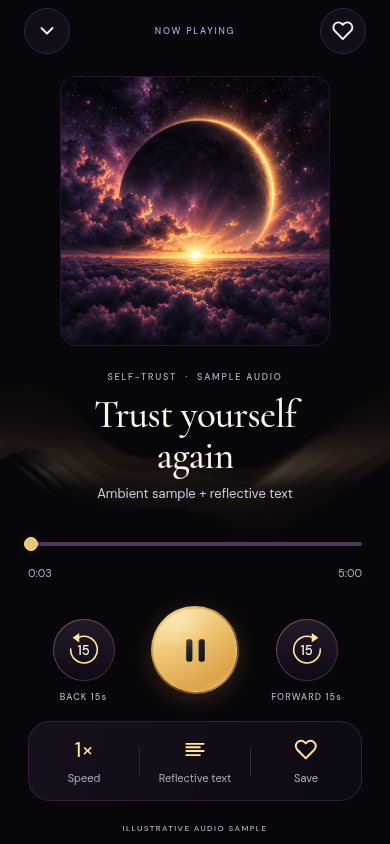
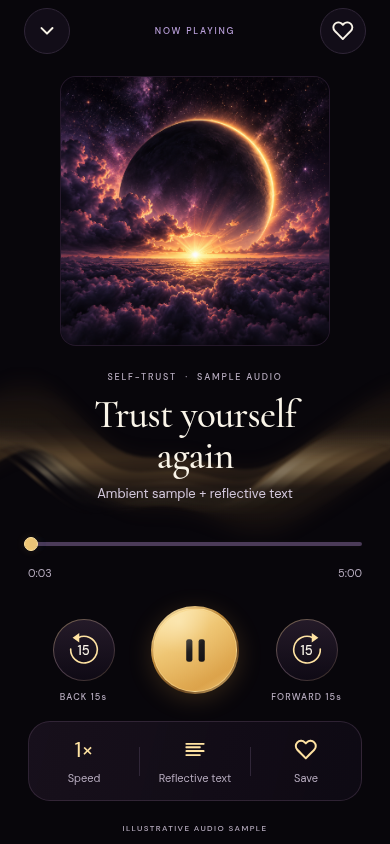
Brighten gold aurora and restore player touch scrolling

Changed region(s): [[0.0, 0.4929, 0.5231, 0.5853], [0.6462, 0.4929, 1.0, 0.5853]]

diff --git a/src/ui/SeekBar.tsx b/src/ui/SeekBar.tsx
@@ -1,24 +1,22 @@
-import React, { useCallback, useEffect, useRef, useState } from 'react';
+import React, { useCallback, useEffect, useMemo, useRef, useState } from 'react';
 import { AppState, Platform, View } from 'react-native';
 import Slider from '@react-native-community/slider';
 import { LinearGradient } from 'expo-linear-gradient';
 import { colors } from './theme';
 import { clampPosition, formatTime } from '../content/logic';
 import { seekInteraction, type SeekAction, type SeekInteraction } from './seekInteraction';
+import { createNativeSeekGesture } from './nativeSeekGesture';
 
 type Props = {
   position: number;
   duration: number;
   onSeek: (seconds: number) => void;
   disabled?: boolean;
-  onScrubbingChange?: (scrubbing: boolean) => void;
 };
 
-export function SeekBar({ position, duration, onSeek, disabled, onScrubbingChange }: Props) {
+export function SeekBar({ position, duration, onSeek, disabled }: Props) {
   const [interaction, setInteraction] = useState<SeekInteraction>({ phase: 'idle' });
   const interactionRef = useRef(interaction);
-  const onScrubbingRef = useRef(onScrubbingChange);
-  onScrubbingRef.current = onScrubbingChange;
   const [focused, setFocused] = useState(false);
   const unavailable = !!disabled || !Number.isFinite(duration) || duration <= 0;
   const transition = useCallback((action: SeekAction) => {
@@ -26,13 +24,15 @@ export function SeekBar({ position, duration, onSeek, disabled, onScrubbingChang
     const next = seekInteraction(previous, action);
     interactionRef.current = next;
     if (previous !== next) setInteraction(next);
-    if ((previous.phase === 'dragging') !== (next.phase === 'dragging')) {
-      onScrubbingRef.current?.(next.phase === 'dragging');
-    }
   }, []);
   const reset = useCallback(() => transition({ type: 'reset' }), [transition]);
+  const nativeGesture = useMemo(() => createNativeSeekGesture(() => {
+    if (interactionRef.current.phase === 'dragging') reset();
+  }), [reset]);
   useEffect(() => { transition({ type: 'position', value: position }); }, [position, transition]);
-  useEffect(() => { if (unavailable) reset(); }, [unavailable, reset]);
+  useEffect(() => {
+    if (unavailable) { nativeGesture.cancel(); reset(); }
+  }, [unavailable, reset, nativeGesture]);
   useEffect(() => {
     if (interaction.phase !== 'seeking') return;
     // A failed seek must not strand the thumb; normal 250 ms transport ticks acknowledge it first.
@@ -40,9 +40,14 @@ export function SeekBar({ position, duration, onSeek, disabled, onScrubbingChang
     return () => clearTimeout(timer);
   }, [interaction, reset]);
   useEffect(() => {
-    const subscription = AppState.addEventListener('change', state => { if (state !== 'active') reset(); });
-    return () => { subscription.remove(); onScrubbingRef.current?.(false); };
-  }, [reset]);
+    const subscription = AppState.addEventListener('change', state => {
+      if (state !== 'active') { nativeGesture.cancel(); reset(); }
+    });
+    return () => {
+      subscription.remove();
+      nativeGesture.dispose();
+    };
+  }, [reset, nativeGesture]);
 
   const value = clampPosition(interaction.phase === 'idle' ? position : interaction.value, duration);
   const commit = (seconds: number) => {
@@ -80,7 +85,9 @@ export function SeekBar({ position, duration, onSeek, disabled, onScrubbingChang
       value={interaction.phase === 'dragging' ? interaction.nativeValue : value}
       disabled={unavailable} tapToSeek step={0} thumbSize={18}
       minimumTrackTintColor={colors.gold} maximumTrackTintColor="#493957" thumbTintColor={colors.gold}
-      onSlidingStart={begin} onValueChange={move} onSlidingComplete={commit}
+      onSlidingStart={seconds => { nativeGesture.start(); begin(seconds); }} onValueChange={move}
+      onSlidingComplete={seconds => nativeGesture.complete(() => commit(seconds))}
+      onTouchEnd={nativeGesture.end} onTouchCancel={nativeGesture.cancel} onResponderTerminate={nativeGesture.cancel}
     />
   </View>;
 
@@ -104,9 +111,10 @@ export function SeekBar({ position, duration, onSeek, disabled, onScrubbingChang
       },
       onPointerUp: () => { if (interactionRef.current.phase === 'dragging') commit(interactionRef.current.value); },
       onPointerCancel: reset,
+      onLostPointerCapture: () => { if (interactionRef.current.phase === 'dragging') reset(); },
       onFocus: () => setFocused(true),
       onBlur: () => { setFocused(false); if (interactionRef.current.phase === 'dragging') reset(); },
-      style: { position: 'absolute', width: '100%', height: 44, opacity: .01, cursor: unavailable ? 'default' : 'pointer', margin: 0, touchAction: 'none' },
+      style: { position: 'absolute', width: '100%', height: 44, opacity: .01, cursor: unavailable ? 'default' : 'pointer', margin: 0, touchAction: 'pan-y' },
     })}
   </View>;
 }

diff --git a/tests/browser/player-scroll.spec.ts b/tests/browser/player-scroll.spec.ts
@@ -1,0 +1,64 @@
+import { test, expect, type CDPSession } from '@playwright/test';
+
+test.use({ hasTouch: true, viewport: { width: 390, height: 667 } });
+
+async function swipe(session: CDPSession, x: number, fromY: number, toY: number) {
+  await session.send('Input.dispatchTouchEvent', { type: 'touchStart', touchPoints: [{ x, y: fromY }] });
+  for (let step = 1; step <= 10; step++) {
+    await session.send('Input.dispatchTouchEvent', { type: 'touchMove', touchPoints: [{ x, y: fromY + (toY - fromY) * step / 10 }] });
+    await new Promise(resolve => setTimeout(resolve, 24));
+  }
+  await session.send('Input.dispatchTouchEvent', { type: 'touchEnd', touchPoints: [] });
+}
+
+test('player touch scrolling survives seek cancellation and works over foreground controls', async ({ page, context }) => {
+  const errors: string[] = [];
+  page.on('pageerror', error => errors.push(error.message));
+  await page.goto('./');
+  await page.getByTestId('finish-onboarding').click();
+  await page.getByRole('button', { name: 'Start listening' }).click();
+  await expect(page.getByTestId('player-toggle')).toHaveAttribute('aria-label', 'Pause practice');
+  await page.getByRole('button', { name: 'Reflective text', exact: true }).click();
+  const scroll = page.getByTestId('player-scroll');
+  const scrollTop = () => scroll.evaluate(node => node.scrollTop);
+  await expect.poll(() => scroll.evaluate(node => node.scrollHeight > node.clientHeight + 200)).toBe(true);
+  const session = await context.newCDPSession(page);
+
+  await scroll.evaluate(node => { node.scrollTop = 0; });
+  await swipe(session, 195, 450, 200);
+  await expect.poll(scrollTop).toBeGreaterThan(100);
+
+  // A vertical gesture beginning on the seek track must scroll the page. The
+  // browser cancels range tracking when it takes the pan; no stale drag lock
+  // may survive that cancellation.
+  const slider = page.getByRole('slider', { name: 'Seek audio' });
+  await slider.scrollIntoViewIfNeeded();
+  const bounds = (await slider.boundingBox())!;
+  const before = await scrollTop();
+  expect(await slider.evaluate(node => getComputedStyle(node).touchAction)).toBe('pan-y');
+  await swipe(session, bounds.x + bounds.width / 2, bounds.y + bounds.height / 2, Math.max(50, bounds.y - 180));
+  await expect.poll(scrollTop).toBeGreaterThan(before + 50);
+  expect(await scroll.evaluate(node => getComputedStyle(node).overflowY)).not.toBe('hidden');
+
+  // A real horizontal touch drag still seeks after that cancelled vertical pan.
+  await slider.scrollIntoViewIfNeeded();
+  const track = (await slider.boundingBox())!;
+  await session.send('Input.dispatchTouchEvent', { type: 'touchStart', touchPoints: [{ x: track.x + track.width * .25, y: track.y + track.height / 2 }] });
+  for (let step = 1; step <= 8; step++) {
+    await session.send('Input.dispatchTouchEvent', { type: 'touchMove', touchPoints: [{ x: track.x + track.width * (.25 + .5 * step / 8), y: track.y + track.height / 2 }] });
+    await new Promise(resolve => setTimeout(resolve, 24));
+  }
+  await session.send('Input.dispatchTouchEvent', { type: 'touchEnd', touchPoints: [] });
+  const duration = Number(await slider.getAttribute('max'));
+  await expect.poll(async () => Number(await slider.inputValue())).toBeGreaterThan(duration * .6);
+  // Keyboard and assistive seeking continue to work as well.
+  await slider.fill('30');
+  await expect(page.getByTestId('audio-position')).toHaveText('0:30');
+  await page.getByTestId('player-toggle').click();
+  await expect(page.getByTestId('player-toggle')).toHaveAttribute('aria-label', 'Play practice');
+  const control = (await page.getByTestId('player-toggle').boundingBox())!;
+  const afterSeek = await scrollTop();
+  await swipe(session, control.x + control.width / 2, control.y + control.height / 2, Math.max(50, control.y - 140));
+  await expect.poll(scrollTop).toBeGreaterThan(afterSeek + 50);
+  expect(errors).toEqual([]);
+});

diff --git a/app/player.tsx b/app/player.tsx
@@ -18,7 +18,6 @@ export default function PlayerScreen() {
   const store = useStore();
   const [showText, setShowText] = useState(false);
   const [showInfo, setShowInfo] = useState(false);
-  const [scrubbing, setScrubbing] = useState(false);
   const [bodyTop, setBodyTop] = useState(320);
   const { width, height, fontScale } = useWindowDimensions();
   const insets = useSafeAreaInsets();
@@ -28,7 +27,7 @@ export default function PlayerScreen() {
   const artworkSize = wide ? 410 : Math.min(width - 64, 330, Math.max(190, (height - insets.top - insets.bottom) * .32));
   const auroraStyle = useMemo(() => ({ top: wide ? 40 : Math.max(0, bodyTop - 75), height: wide ? 440 : 360 + Math.max(0, fontScale - 1) * 80 }), [wide, bodyTop, fontScale]);
   return <SafeAreaView style={{ flex: 1, backgroundColor: colors.bg }}>
-    <ScrollView keyboardShouldPersistTaps="handled" scrollEnabled={!scrubbing} canCancelContentTouches={false} directionalLockEnabled contentContainerStyle={{ alignItems: 'center', paddingTop: 8, paddingBottom: 24 }}>
+    <ScrollView testID="player-scroll" keyboardShouldPersistTaps="handled" directionalLockEnabled contentContainerStyle={{ alignItems: 'center', paddingTop: 8, paddingBottom: 24 }}>
       <View style={{ width: '100%', maxWidth: 1080, paddingHorizontal: 24, flexDirection: 'row', alignItems: 'center', justifyContent: 'space-between', gap: 12 }}>
         <IconButton framed name="chevron-down" label="Close player" onPress={() => router.canGoBack() ? router.back() : router.replace('/')} />
         <Label style={{ color: colors.purple, fontSize: 9 }}>NOW PLAYING</Label>
@@ -45,7 +44,7 @@ export default function PlayerScreen() {
               <Body style={{ fontSize: 13, lineHeight: 20, textAlign: 'center', color: '#D2C8DB' }}>Ambient sample + reflective text</Body>
             </View>
             <View style={{ marginTop: 0 }}>
-              <SeekBar position={audio.position} duration={audio.duration} onSeek={audio.seek} onScrubbingChange={setScrubbing} disabled={!audio.lesson || audio.loading} />
+              <SeekBar position={audio.position} duration={audio.duration} onSeek={audio.seek} disabled={!audio.lesson || audio.loading} />
               <View style={{ flexDirection: 'row', justifyContent: 'space-between' }}>
                 <Text testID="audio-position" style={{ color: colors.muted, fontFamily: fonts.body, fontVariant: ['tabular-nums'], fontSize: 11 }}>{formatTime(audio.position)}</Text>
                 <Text style={{ color: colors.muted, fontFamily: fonts.body, fontVariant: ['tabular-nums'], fontSize: 11 }}>{audio.duration ? formatTime(audio.duration) : `${lesson.minutes}:00`}</Text>

diff --git a/tests/nativeSeekGesture.test.ts b/tests/nativeSeekGesture.test.ts
@@ -1,0 +1,60 @@
+import assert from 'node:assert/strict';
+import test from 'node:test';
+import { createNativeSeekGesture } from '../src/ui/nativeSeekGesture';
+
+test('a cancelled native drag cannot seek even if the slider subsequently emits completion', context => {
+  context.mock.timers.enable({ apis: ['setTimeout'] });
+  const events: string[] = [];
+  const gesture = createNativeSeekGesture(() => events.push('release'));
+  gesture.start();
+  gesture.cancel();
+  gesture.complete(() => events.push('seek'));
+  context.mock.timers.runAll();
+  assert.deepEqual(events, ['release']);
+  gesture.start();
+  gesture.complete(() => events.push('new seek'));
+  assert.deepEqual(events, ['release', 'new seek']);
+});
+
+test('a new drag is not reset by the preceding touch-end fallback', context => {
+  context.mock.timers.enable({ apis: ['setTimeout'] });
+  let released = 0;
+  const gesture = createNativeSeekGesture(() => released++);
+  gesture.start();
+  gesture.end();
+  gesture.start();
+  context.mock.timers.runAll();
+  assert.equal(released, 0);
+  gesture.end();
+  context.mock.timers.runAll();
+  assert.equal(released, 1);
+});
+
+test('normal completion clears fallback and missing completion releases the held thumb', context => {
+  context.mock.timers.enable({ apis: ['setTimeout'] });
+  const events: string[] = [];
+  const gesture = createNativeSeekGesture(() => events.push('release'));
+  gesture.start();
+  gesture.end();
+  gesture.complete(() => events.push('seek'));
+  context.mock.timers.runAll();
+  assert.deepEqual(events, ['seek']);
+  gesture.start();
+  gesture.end();
+  context.mock.timers.runAll();
+  assert.deepEqual(events, ['seek', 'release']);
+  // A completion arriving after the fallback can still commit the native value.
+  gesture.complete(() => events.push('late seek'));
+  assert.deepEqual(events, ['seek', 'release', 'late seek']);
+});
+
+test('disposing a mounted slider clears any pending fallback', context => {
+  context.mock.timers.enable({ apis: ['setTimeout'] });
+  let released = false;
+  const gesture = createNativeSeekGesture(() => { released = true; });
+  gesture.start();
+  gesture.end();
+  gesture.dispose();
+  context.mock.timers.runAll();
+  assert.equal(released, false);
+});

diff --git a/tests/browser/app.spec.ts b/tests/browser/app.spec.ts
@@ -110,8 +110,8 @@ test('gold aurora changes shape, stays behind controls, idles and respects reduc
   const paths = visualizer.locator('path[id*="-ribbon-"]');
   const shape = () => paths.first().getAttribute('d');
   const opacity = () => page.getByTestId('waveform-intensity').evaluate(node => Number(getComputedStyle(node).opacity));
-  await expect.poll(opacity).toBeGreaterThan(.23);
-  expect(await opacity()).toBeLessThanOrEqual(.25);
+  await expect.poll(opacity).toBeGreaterThan(.54);
+  expect(await opacity()).toBeLessThanOrEqual(.57);
   expect(await paths.count()).toBe(6);
   const playing = await shape();
   await expect.poll(shape).not.toBe(playing);
@@ -140,14 +140,15 @@ test('gold aurora changes shape, stays behind controls, idles and respects reduc
   expect(new Set(gradientIds).size).toBe(gradientIds.length);
 
   await page.getByTestId('player-toggle').click();
-  await expect.poll(opacity).toBeLessThan(.12);
+  await expect.poll(opacity).toBeLessThan(.29);
+  expect(await opacity()).toBeGreaterThan(.25);
   const idle = await shape(); await expect.poll(shape).not.toBe(idle);
   await page.emulateMedia({ reducedMotion: 'reduce' });
   await page.waitForTimeout(200);
   const frozenIdle = await shape();
   await page.waitForTimeout(400); expect(await shape()).toBe(frozenIdle);
   await page.getByTestId('player-toggle').click();
-  await expect.poll(opacity).toBeGreaterThan(.23);
+  await expect.poll(opacity).toBeGreaterThan(.54);
   await page.waitForTimeout(200);
   const frozenPlaying = await shape();
   await page.waitForTimeout(400); expect(await shape()).toBe(frozenPlaying);

diff --git a/src/ui/PlaybackVisualizer.tsx b/src/ui/PlaybackVisualizer.tsx
@@ -50,7 +50,9 @@ export const PlaybackVisualizer = React.memo(function PlaybackVisualizer({ playi
     energy.value = withTiming(playing ? 1 : .2, { duration: reduceMotion ? 0 : 1400, easing: Easing.inOut(Easing.quad) });
     tempo.value = withTiming(playing ? 10000 : 26000, { duration: reduceMotion ? 0 : 1000 });
   }, [playing, reduceMotion, energy, tempo]);
-  const intensity = useAnimatedStyle(() => ({ opacity: compact ? .2 + .45 * energy.value : .08 + .16 * energy.value }));
+  // Individual ribbons already have soft, transparent gradients. Keep the
+  // full-width layer visible rather than dimming it a second time into black.
+  const intensity = useAnimatedStyle(() => ({ opacity: compact ? .2 + .45 * energy.value : .2 + .36 * energy.value }));
   return <View testID={compact ? 'mini-visualizer' : 'playback-visualizer'} pointerEvents="none" accessible={false} accessibilityElementsHidden importantForAccessibility="no-hide-descendants" style={[compact ? { width: 28, height: 22, overflow: 'hidden' } : { position: 'absolute', left: 0, right: 0, top: 0, height: 380, overflow: 'hidden', zIndex: 0 }, style]}>
     <Animated.View testID={!compact ? 'waveform-intensity' : undefined} style={[{ width: '100%', height: '100%' }, intensity]}>
       <Svg width="100%" height="100%" viewBox={`0 0 ${AURORA_WIDTH} ${AURORA_HEIGHT}`} preserveAspectRatio="none">

diff --git a/src/ui/nativeSeekGesture.ts b/src/ui/nativeSeekGesture.ts
@@ -1,0 +1,39 @@
+/** Native sliders can emit completion after cancellation. Keep that sequence
+ * separate from transport position, and expire only the touch that scheduled it. */
+export function createNativeSeekGesture(onInterrupted: () => void) {
+  let cancelled = false;
+  let generation = 0;
+  let endTimer: ReturnType<typeof setTimeout> | null = null;
+  const clearEnd = () => {
+    if (endTimer !== null) clearTimeout(endTimer);
+    endTimer = null;
+  };
+  return {
+    start() {
+      clearEnd();
+      generation++;
+      cancelled = false;
+    },
+    cancel() {
+      clearEnd();
+      generation++;
+      cancelled = true;
+      onInterrupted();
+    },
+    end() {
+      clearEnd();
+      const endedGeneration = generation;
+      // Let the slider's normal completion commit first. If it never arrives,
+      // discard the held thumb rather than stranding the interaction.
+      endTimer = setTimeout(() => {
+        endTimer = null;
+        if (!cancelled && generation === endedGeneration) onInterrupted();
+      }, 0);
+    },
+    complete(commit: () => void) {
+      clearEnd();
+      if (!cancelled) commit();
+    },
+    dispose: clearEnd,
+  };
+}

diff --git a/README.md b/README.md
@@ -148,8 +148,8 @@ Device checklist: listen with the screen locked and app backgrounded; try lock-s
 - A 14-day journey with local progress. Listening to the end marks the lesson practiced and completes the next matching path day; a circle lets you self-report another practiced day. There are no psychological scores, locked days, promised outcomes, or streak penalties.
 - A single persistent player across the main screens, with play/pause, actual duration, seeking, ±15-second controls, speed, errors/retry, completion, and saved listening position. Restored sessions begin paused.
 - Native Expo Audio session uses `playsInSilentMode`, `shouldPlayInBackground`, and `doNotMix`. `expo-audio`'s config plugin enables the iOS audio background mode and Android media playback service. Lock-screen controls are registered with title and demo metadata. Native OS interruptions and headset disconnection can pause playback; users choose when to resume.
-- The approved black/plum/gold redesign applies to every screen. Bundled Cormorant Garamond headings and DM Sans controls sit beside original celestial cover artwork; open practice rows replace most bordered cards. The player has a satin-gold medallion, matching 15-second controls, a gold seek track, and a unified speed/text/save toolbar. Native seeking now uses the already-installed UISlider/Android SeekBar, with iOS track tapping and scrolling disabled while scrubbing. Exact native seek tolerances and a serial queue retain the newest destination instead of letting overlapping requests cancel it. Thumb drafts survive transport ticks and wait for acknowledgement. Web keeps a keyboard-accessible range input and commits pointer drags on release. Text scales, layouts respect safe areas, and short screens scroll.
-- A full-width transparent gold aurora sits explicitly underneath the player foreground. Six soft filled Bézier ribbons change their actual shape, amplitude and thickness as different harmonics flow rightward; a static texture is no longer translated across the screen. Dimmer bronze/champagne tones and fading edges preserve text and control legibility. Motion runs at 30 fps on the native UI thread using the project's existing Reanimated/worklets modules, slower and smaller while idle. Phase is preserved at playback changes. Reduce Motion freezes shape changes, and backgrounding stops only visual animation. It is atmospheric, not a measurement of audio frequencies. [Design notes and approved references](docs/design.md) describe the components, assets and animation.
+- The approved black/plum/gold redesign applies to every screen. Bundled Cormorant Garamond headings and DM Sans controls sit beside original celestial cover artwork; open practice rows replace most bordered cards. The player has a satin-gold medallion, matching 15-second controls, a gold seek track, and a unified speed/text/save toolbar. Native seeking uses the already-installed UISlider/Android SeekBar, with iOS track tapping. The player keeps normal vertical scrolling; cancelled slider gestures clear locally without locking the whole screen. Exact native seek tolerances and a serial queue retain the newest destination instead of letting overlapping requests cancel it. Thumb drafts survive transport ticks and wait for acknowledgement. Web keeps a keyboard-accessible range input, allows vertical touch pans, and commits horizontal drags on release. Text scales, layouts respect safe areas, and short screens scroll.
+- A full-width transparent gold aurora sits explicitly underneath the player foreground. Six soft filled Bézier ribbons change their actual shape, amplitude and thickness as different harmonics flow rightward; a static texture is no longer translated across the screen. The wave is visible while idle and brighter during playback, with muted bronze/champagne tones and fading edges preserving text and control legibility. Motion runs at 30 fps on the native UI thread using the project's existing Reanimated/worklets modules, slower and smaller while idle. Phase is preserved at playback changes. Reduce Motion freezes shape changes, and backgrounding stops only visual animation. It is atmospheric, not a measurement of audio frequencies. [Design notes and approved references](docs/design.md) describe the components, assets and animation.
 
 
 ## Content and licensing
@@ -216,7 +216,7 @@ Playwright uses `/usr/bin/chromium` when available in this cloud machine. On ano
 
 Native config introspection verifies the background mode, media service, and absence of microphone permissions. Actual iOS/Android binaries, hardware interruption behavior, OS background lifetimes, native assistive technologies, and lock-screen controls require the device checklist above. No remote deployment or GitHub upload is performed by these commands.
 
-Player-fix validation: TypeScript and **45 unit tests** passed. Coverage includes the real RN abort shim, asynchronous session activation and superseded play/pause/play attempts, exact serial seeks and native position verification, old endpoint events during/after backward seeking, report sanitization, drag acknowledgement, and continuous rightward wave deformation. **All 7 browser tests passed against both development and production Pages builds**. They exercise actual playback time, seek/skip/speed, completion, persistence, favorites, search/filter, rapid pause, error recovery and synchronized quick-reset/mini-player controls. Pointer tests hold a dragged thumb while playback stays at its old position, release once, tap the track, drag outside its bounds and use the keyboard. Visual checks cover gold filled paths changing shape, reduced brightness, foreground stacking and unobstructed controls, full-width 390px placement, idle motion, playback amplification, Reduce Motion, bundled fonts/artwork and 1.6× text at 320px. Production screenshots and approved references are included in [the design notes](docs/design.md). Native configuration assertions and final web/iOS/Android JavaScript exports passed; export is not a signed native build. Slider 5.2.0, Reanimated 4.5.1, worklets 0.10.1 and SVG 15.15.4 already match SDK 57's bundled modules. No native dependency/config change or new Expo Go binary is required for this update.
+Player validation: TypeScript and **49 unit tests** passed. Coverage includes native session/playback races, serial seeks, diagnostic sanitization, held-thumb acknowledgement, continuous rightward wave deformation, and cancelled native slider completion, fresh-drag recovery and timer cleanup. **All 8 browser tests passed against the production Pages build**; the changed aurora and touch-scroll checks also passed on the development server. They exercise real audio playback, seeking/skipping/speed, completion, persistence, favorites, search/filter, rapid pause and error recovery. Pointer tests cover dragging, track taps, outside release and keyboard seeking. Real Chromium touch gestures verify vertical scrolling over player content and controls, cancelling a vertical pan on the seek track, and horizontal seeking afterward. Visual checks cover brighter gold filled paths, foreground stacking, unobstructed controls, full-width 390px placement, idle motion, playback amplification, Reduce Motion, fonts/artwork and 1.6× text at 320px. Production screenshots and approved references are in [the design notes](docs/design.md). Native configuration assertions and web/iOS/Android JavaScript exports passed; export is not a signed native build. Slider 5.2.0, Reanimated 4.5.1, worklets 0.10.1 and SVG 15.15.4 already match SDK 57's bundled modules. No native dependency/config change or new Expo Go binary is required for this update.
 
 The web development server remains on port 8081 for iteration. The Pages build is validated separately at its `/rewired` base path. The local static preview helper now serves directory entry files, including the iPhone launch page; a generated celestial favicon avoids broken browser-icon requests. No physical device or signed native-binary testing has been performed. Verify native aurora smoothness, scrub gestures, VoiceOver/Dynamic Type, screen-lock playback, remote controls and interruptions using the device checklist above.
 

diff --git a/docs/design.md b/docs/design.md
@@ -14,9 +14,9 @@ Use spacing and hairline separators instead of outlining every section. Primary 
 
 ## Player and aurora
 
-`src/ui/PlayerControls.tsx` owns the gold medallion, solid transport glyphs, matching 15-second controls and speed/text/save toolbar. Screen components connect them to the audio provider; they do not create players or alter session configuration. `src/ui/SeekBar.tsx` uses the existing Expo-compatible native UISlider/Android SeekBar with gold tint and iOS track tapping; web retains the custom gold track and a real range input for keyboard/pointer access. Page scrolling is disabled during a scrub, incoming transport ticks cannot move the finger-held thumb, and the released target stays visible until acknowledged. Native seeks use exact tolerances and serialize rapid requests, retaining the newest target. VoiceOver/TalkBack can adjust by 15 seconds. Interactive targets are at least 44 points. Native finger gestures and assistive technology still need device validation.
+`src/ui/PlayerControls.tsx` owns the gold medallion, solid transport glyphs, matching 15-second controls and speed/text/save toolbar. Screen components connect them to the audio provider; they do not create players or alter session configuration. `src/ui/SeekBar.tsx` uses the existing Expo-compatible native UISlider/Android SeekBar with gold tint and iOS track tapping; web retains the custom gold track and a real range input for keyboard/pointer access. The screen keeps normal vertical scrolling: the native slider handles horizontal drags, and the browser range allows vertical pans. Cancellation clears only local drag state, avoiding a screen-wide scroll lock. Incoming transport ticks cannot move the finger-held thumb, and the released target stays visible until acknowledged. Native seeks use exact tolerances and serialize rapid requests, retaining the newest target. VoiceOver/TalkBack can adjust by 15 seconds. Interactive targets are at least 44 points. Native finger gestures and assistive technology still need device validation.
 
-`src/ui/PlaybackVisualizer.tsx` renders six filled gold Bézier ribbons and a restrained diffuse glow. Their geometry lives in `auroraGeometry.ts`. The effect spans the screen with explicit stacking underneath the player foreground and never captures taps. Opacity is much lower (about 0.11 idle, 0.24 playing before individual ribbon alpha), with fading edges so text and controls remain readable. It is an atmospheric visualization, not measured audio frequencies.
+`src/ui/PlaybackVisualizer.tsx` renders six filled gold Bézier ribbons and a restrained diffuse glow. Their geometry lives in `auroraGeometry.ts`. The effect spans the screen with explicit stacking underneath the player foreground and never captures taps. Outer opacity is about 0.27 idle and 0.56 playing, before each ribbon's soft transparency. This makes the wave visible against black while fading edges and muted gold preserve text and control readability. It is an atmospheric visualization, not measured audio frequencies.
 
 The actual path shapes morph on the native UI thread using the project's already-installed Reanimated/worklets modules; this is no longer a translated static texture. Harmonics travel rightward at different speeds while their amplitude and thickness breathe. A 30-fps frame callback limits geometry work, and each ribbon has a modest fixed number of cubic segments. The main phase repeats in 10 seconds during playback and 26 seconds while idle; speed changes preserve phase and smoothly change tempo. All harmonics complete a continuous cycle, avoiding a visible reset. Playback increases amplitude and opacity over 1.4 seconds. Reduce Motion freezes shape changes and removes the intensity transition. Backgrounding stops only visual animation. No microphone, frequency sampling, JS-frame timer or new native dependency is used. Physical iPhone performance is still a required check.
 
